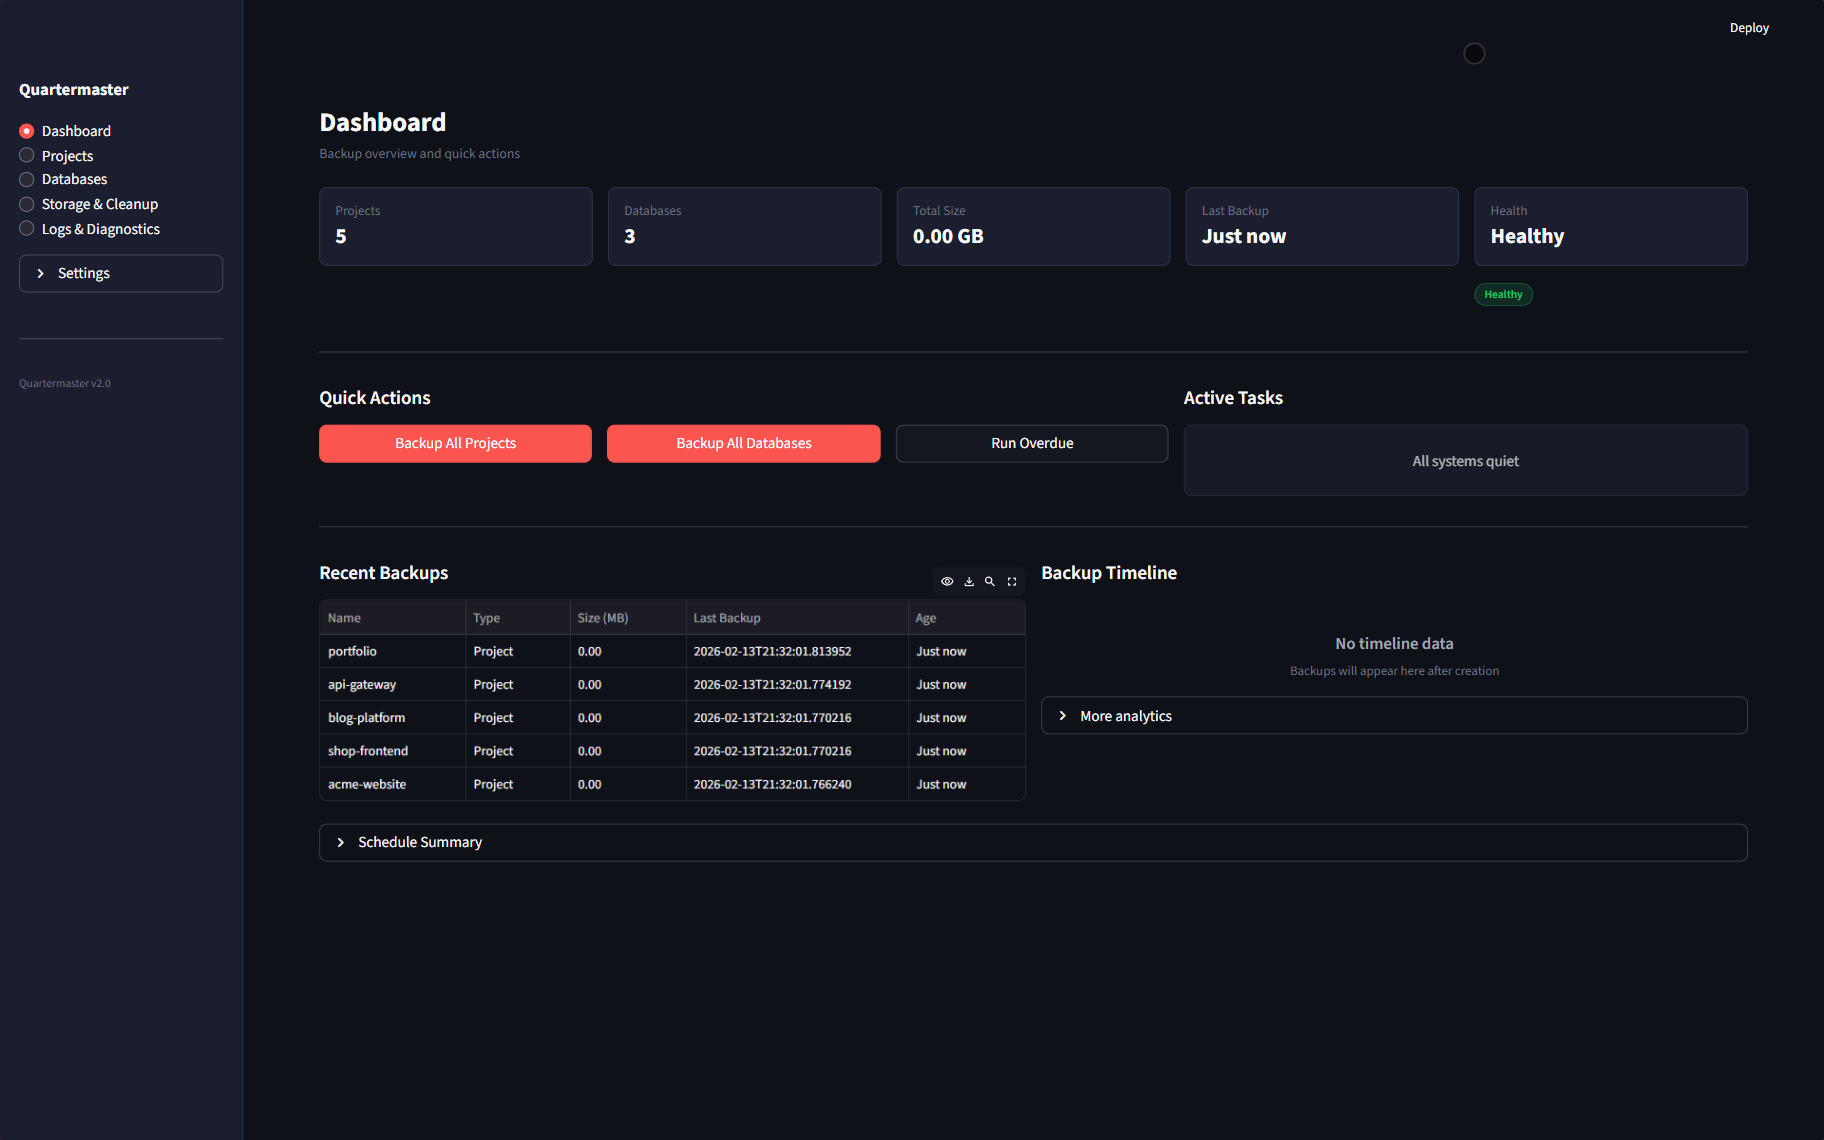
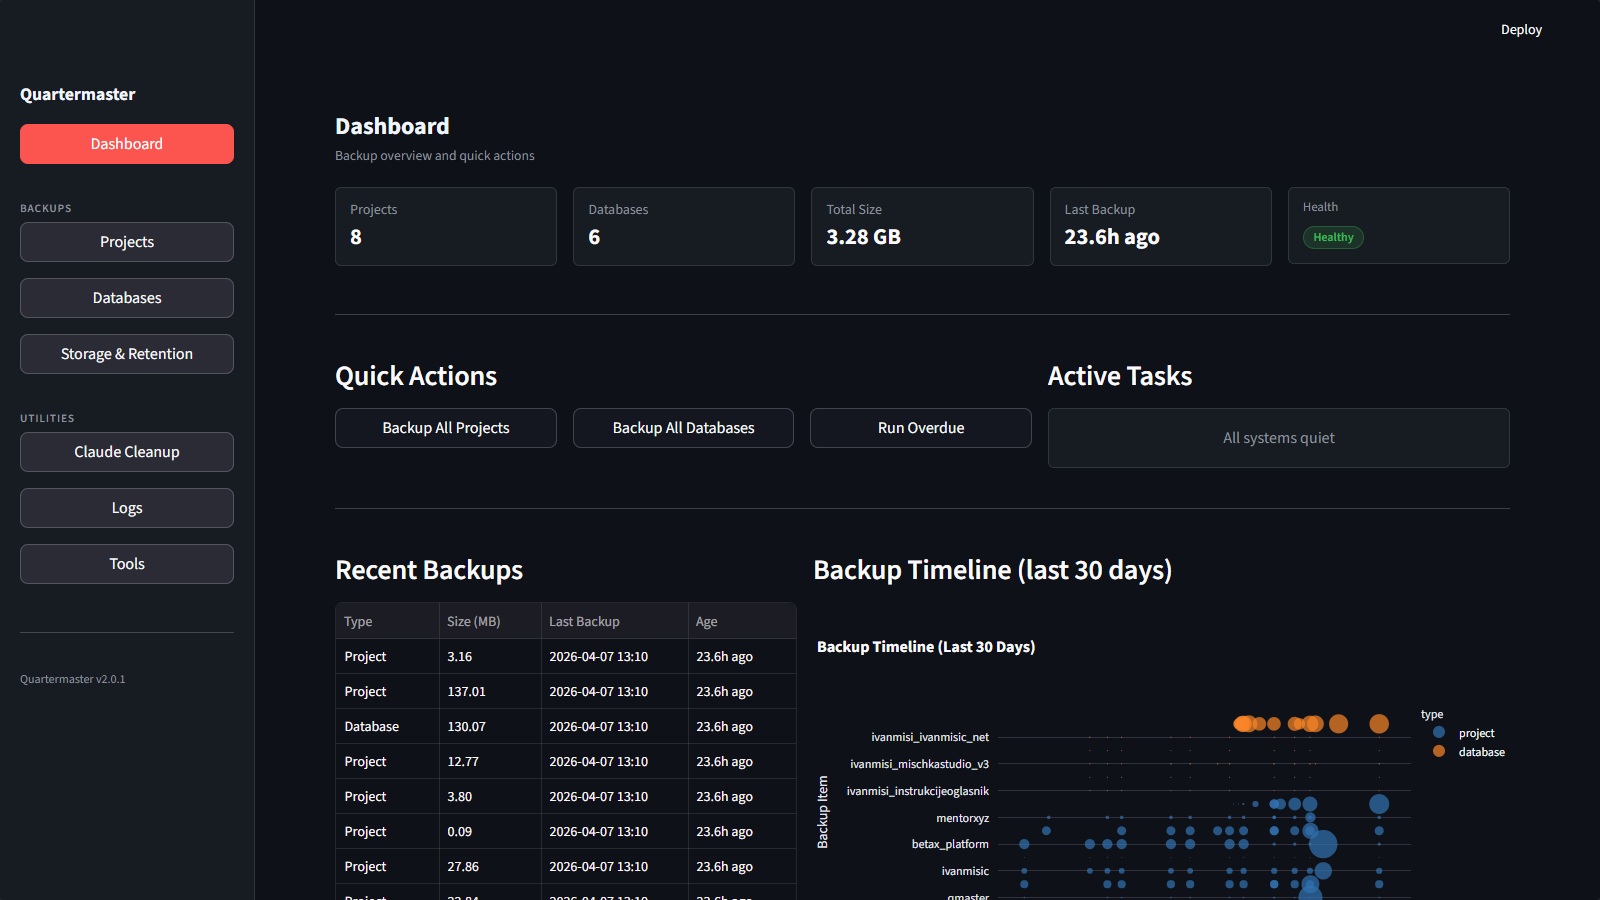
docs: refresh screenshots and sync page names to current UI
Replace stale screenshots with current dark-theme captures (dashboard,
claude-cleanup, tools). Update README and CLAUDE.md to match the new
sidebar nav (Storage & Retention, Claude Cleanup, Logs, Tools) and
collapse HTML cleaner / web scraper / text sanitizer under Tools.

diff --git a/README.md b/README.md
@@ -27,13 +27,7 @@ The name? I wanted something that handles the maintenance stuff I keep putting o
 
 **Claude Code cleanup** - Scans your projects for `.claude` directories, shows you what's eating space, lets you clean by category or blow it all away. I built this after noticing 500+ MB of stale Claude data scattered around.
 
-![Claude Config Cleanup](docs/screenshots/storage-claude-config.png)
-
-**HTML cleaner** - Paste or upload HTML, pick an output format: Markdown, structural HTML (classes and IDs but no style garbage), minimal HTML (barely any attributes), or plain text. Mostly use this before feeding content to AI or cleaning up docs.
-
-**Web scraper** - Give it URLs and it fetches the pages, strips the cruft, and gives you clean Markdown. Can crawl an entire domain with depth limits, or just scrape a list of specific URLs. Optionally uses Playwright for JS-rendered pages that come back empty with plain requests.
-
-**Text sanitizer** - Strips phone numbers, emails, and other personal info from text before you paste it into AI or share it publicly. You can unsanitize later to put the originals back.
+**Tools** - A grab-bag tab: HTML cleaner (HTML → Markdown, structural HTML, minimal HTML, or plain text), web scraper (URLs → clean Markdown, optional Playwright for JS-rendered pages, domain crawl with depth limits), and text sanitizer (strip phones/emails/PII before sharing, unsanitize to restore).
 
 **The rest:**
 - Incremental and full tar.gz project archives
@@ -156,20 +150,11 @@ Needs: Python 3.10+, `mysqldump`, `git`, `cron`. Optional: `playwright` for JS-r
 <details>
 <summary>More screenshots</summary>
 
-### Projects
-![Projects](docs/screenshots/projects.png)
+### Claude Cleanup
+![Claude Cleanup](docs/screenshots/claude-cleanup.png)
 
-### Databases
-![Databases](docs/screenshots/databases.png)
-
-### Storage & Cleanup
-![Storage & Cleanup](docs/screenshots/storage-cleanup.png)
-
-### Claude Code
-![Claude Code](docs/screenshots/storage-claude-config.png)
-
-### Logs & Diagnostics
-![Logs & Diagnostics](docs/screenshots/logs-diagnostics.png)
+### Tools
+![Tools](docs/screenshots/tools.png)
 
 </details>
 

diff --git a/CLAUDE.md b/CLAUDE.md
@@ -134,16 +134,18 @@ Secondary sync uses checksum comparison to skip unchanged files.
 
 ## Web Dashboard Pages
 
-- **Dashboard**: Overview, quick actions, analytics charts
-- **Projects**: Per-project management, git history, backup/restore
-- **Databases**: Database backup management
-- **Backup Cleanup**: Age-based cleanup for local and sync storage
-- **Claude Config**: Claude Code directory cleanup
-- **Apache Logs**: Log viewer with search, stats, export
-- **HTML Cleaner**: Clean and sanitize HTML content
-- **Web Scraper**: Scrape and extract web page content
-- **Settings**: Add projects/databases, view global settings
-- **Scheduler**: View scheduled backups, cron setup
+Sidebar nav is defined in `src/web/app.py::SIDEBAR_NAV`. Views live in `src/web/views/` and must be registered in `src/web/views/__init__.py::PAGE_MAP`.
+
+**Backups section:**
+- **Dashboard**: Overview, quick actions, analytics charts, recent backups, timeline
+- **Projects**: Per-project management, git history, backup/restore, file preview
+- **Databases**: Database backup/restore management
+- **Storage & Retention**: Storage analytics, age-based cleanup for local and sync storage, retention tiers
+
+**Utilities section:**
+- **Claude Cleanup**: Claude Code `.claude` directory scanning and cleanup (Sessions / Config Dump / Project History / MCP Servers tabs)
+- **Logs**: Apache and PHP log viewer with search, severity filtering, stats, export
+- **Tools**: HTML Cleaner, Web Scraper, and Text Sanitizer as tabs under one page
 
 ## Coding Rules (`.claude/rules/`)
 
